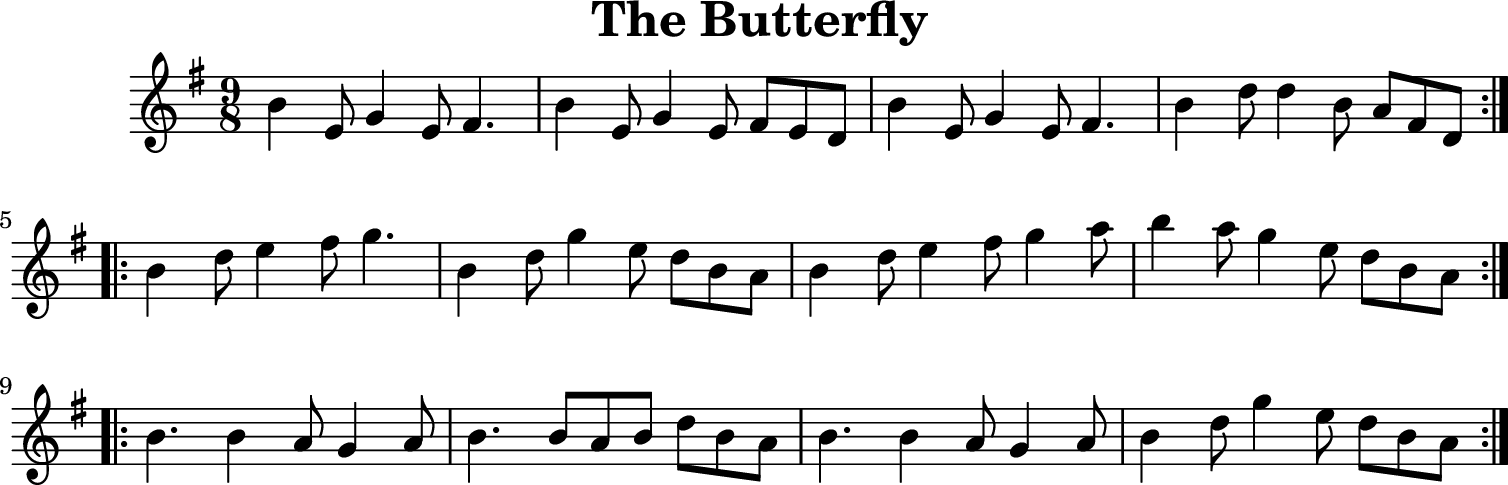
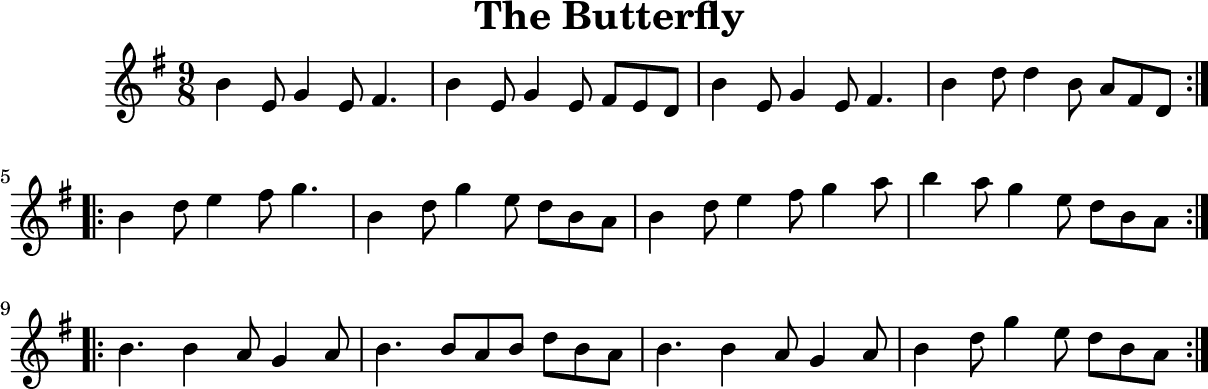
autocommit from build.py!

diff --git a/build.py b/build.py
@@ -34,7 +34,7 @@ print("Converting .LY files to PNG..")
 ly_files = glob.glob('*.ly', recursive=False)
 for ly_file in ly_files:
     clear_ly(ly_file)
-    os.system("lilypond -fpng -dresolution=200 {0}".format(ly_file))
+    os.system("lilypond -fpng -dresolution=160 {0}".format(ly_file))
 
 
 print("Trimming PNG white space..")
